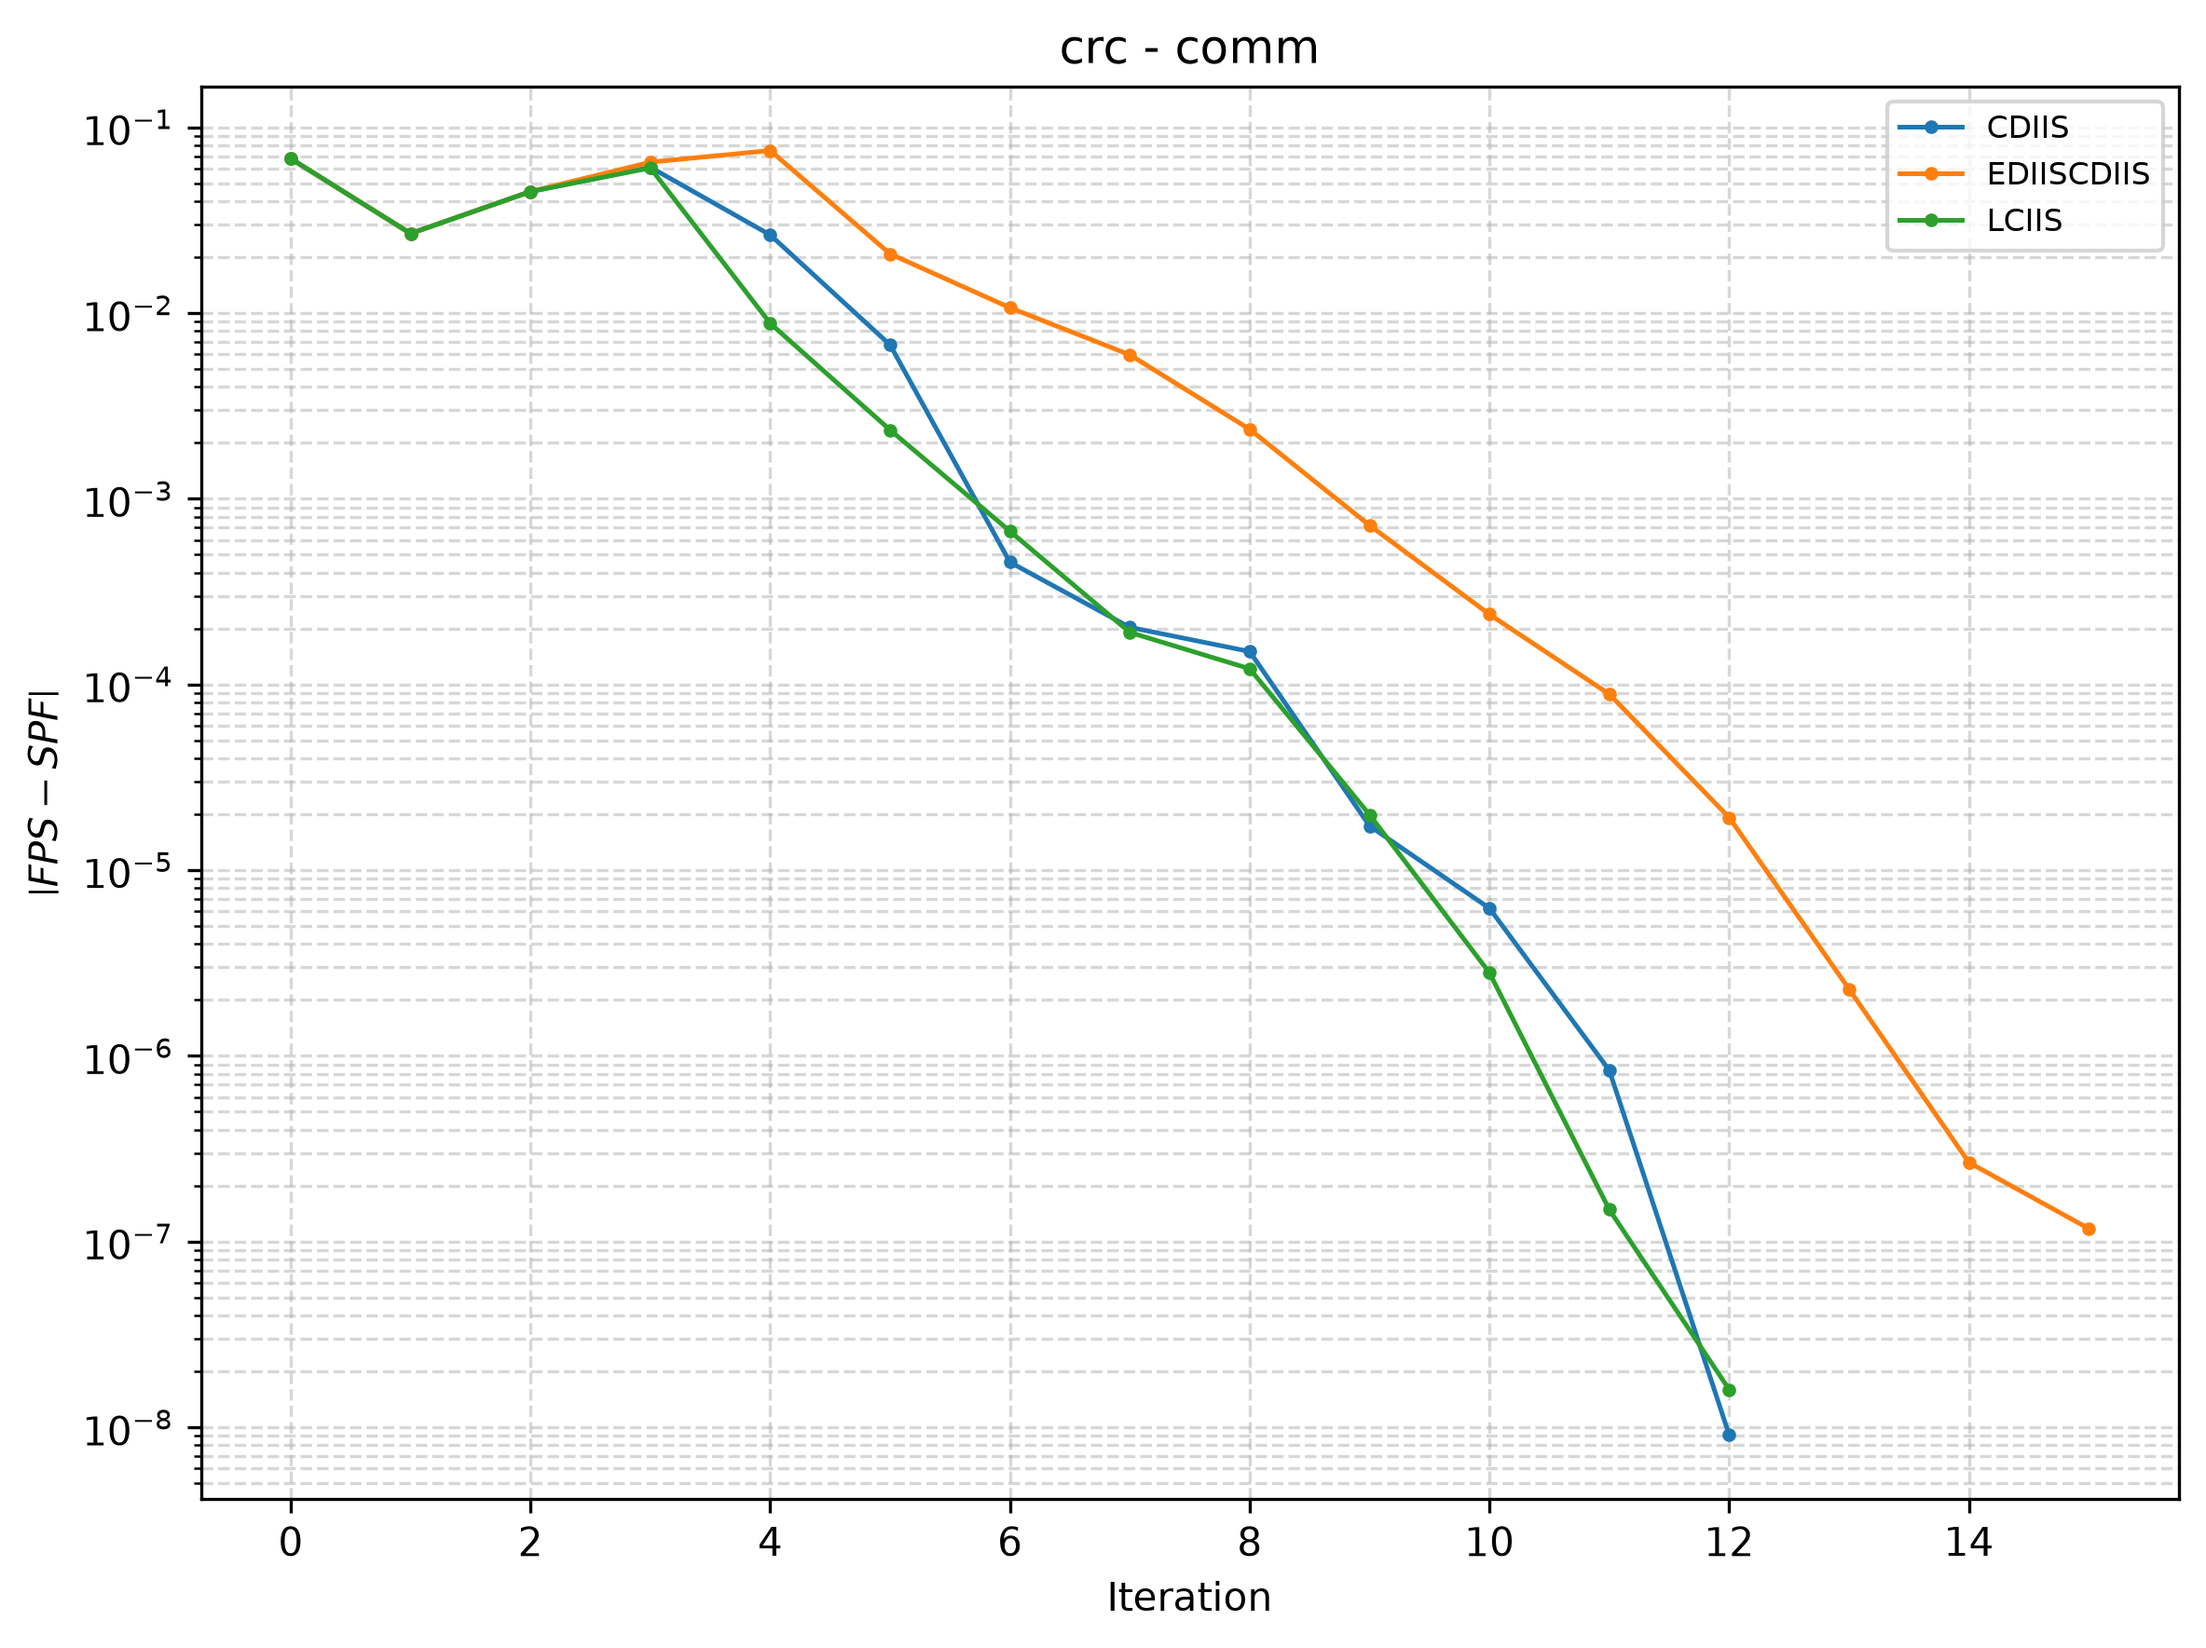
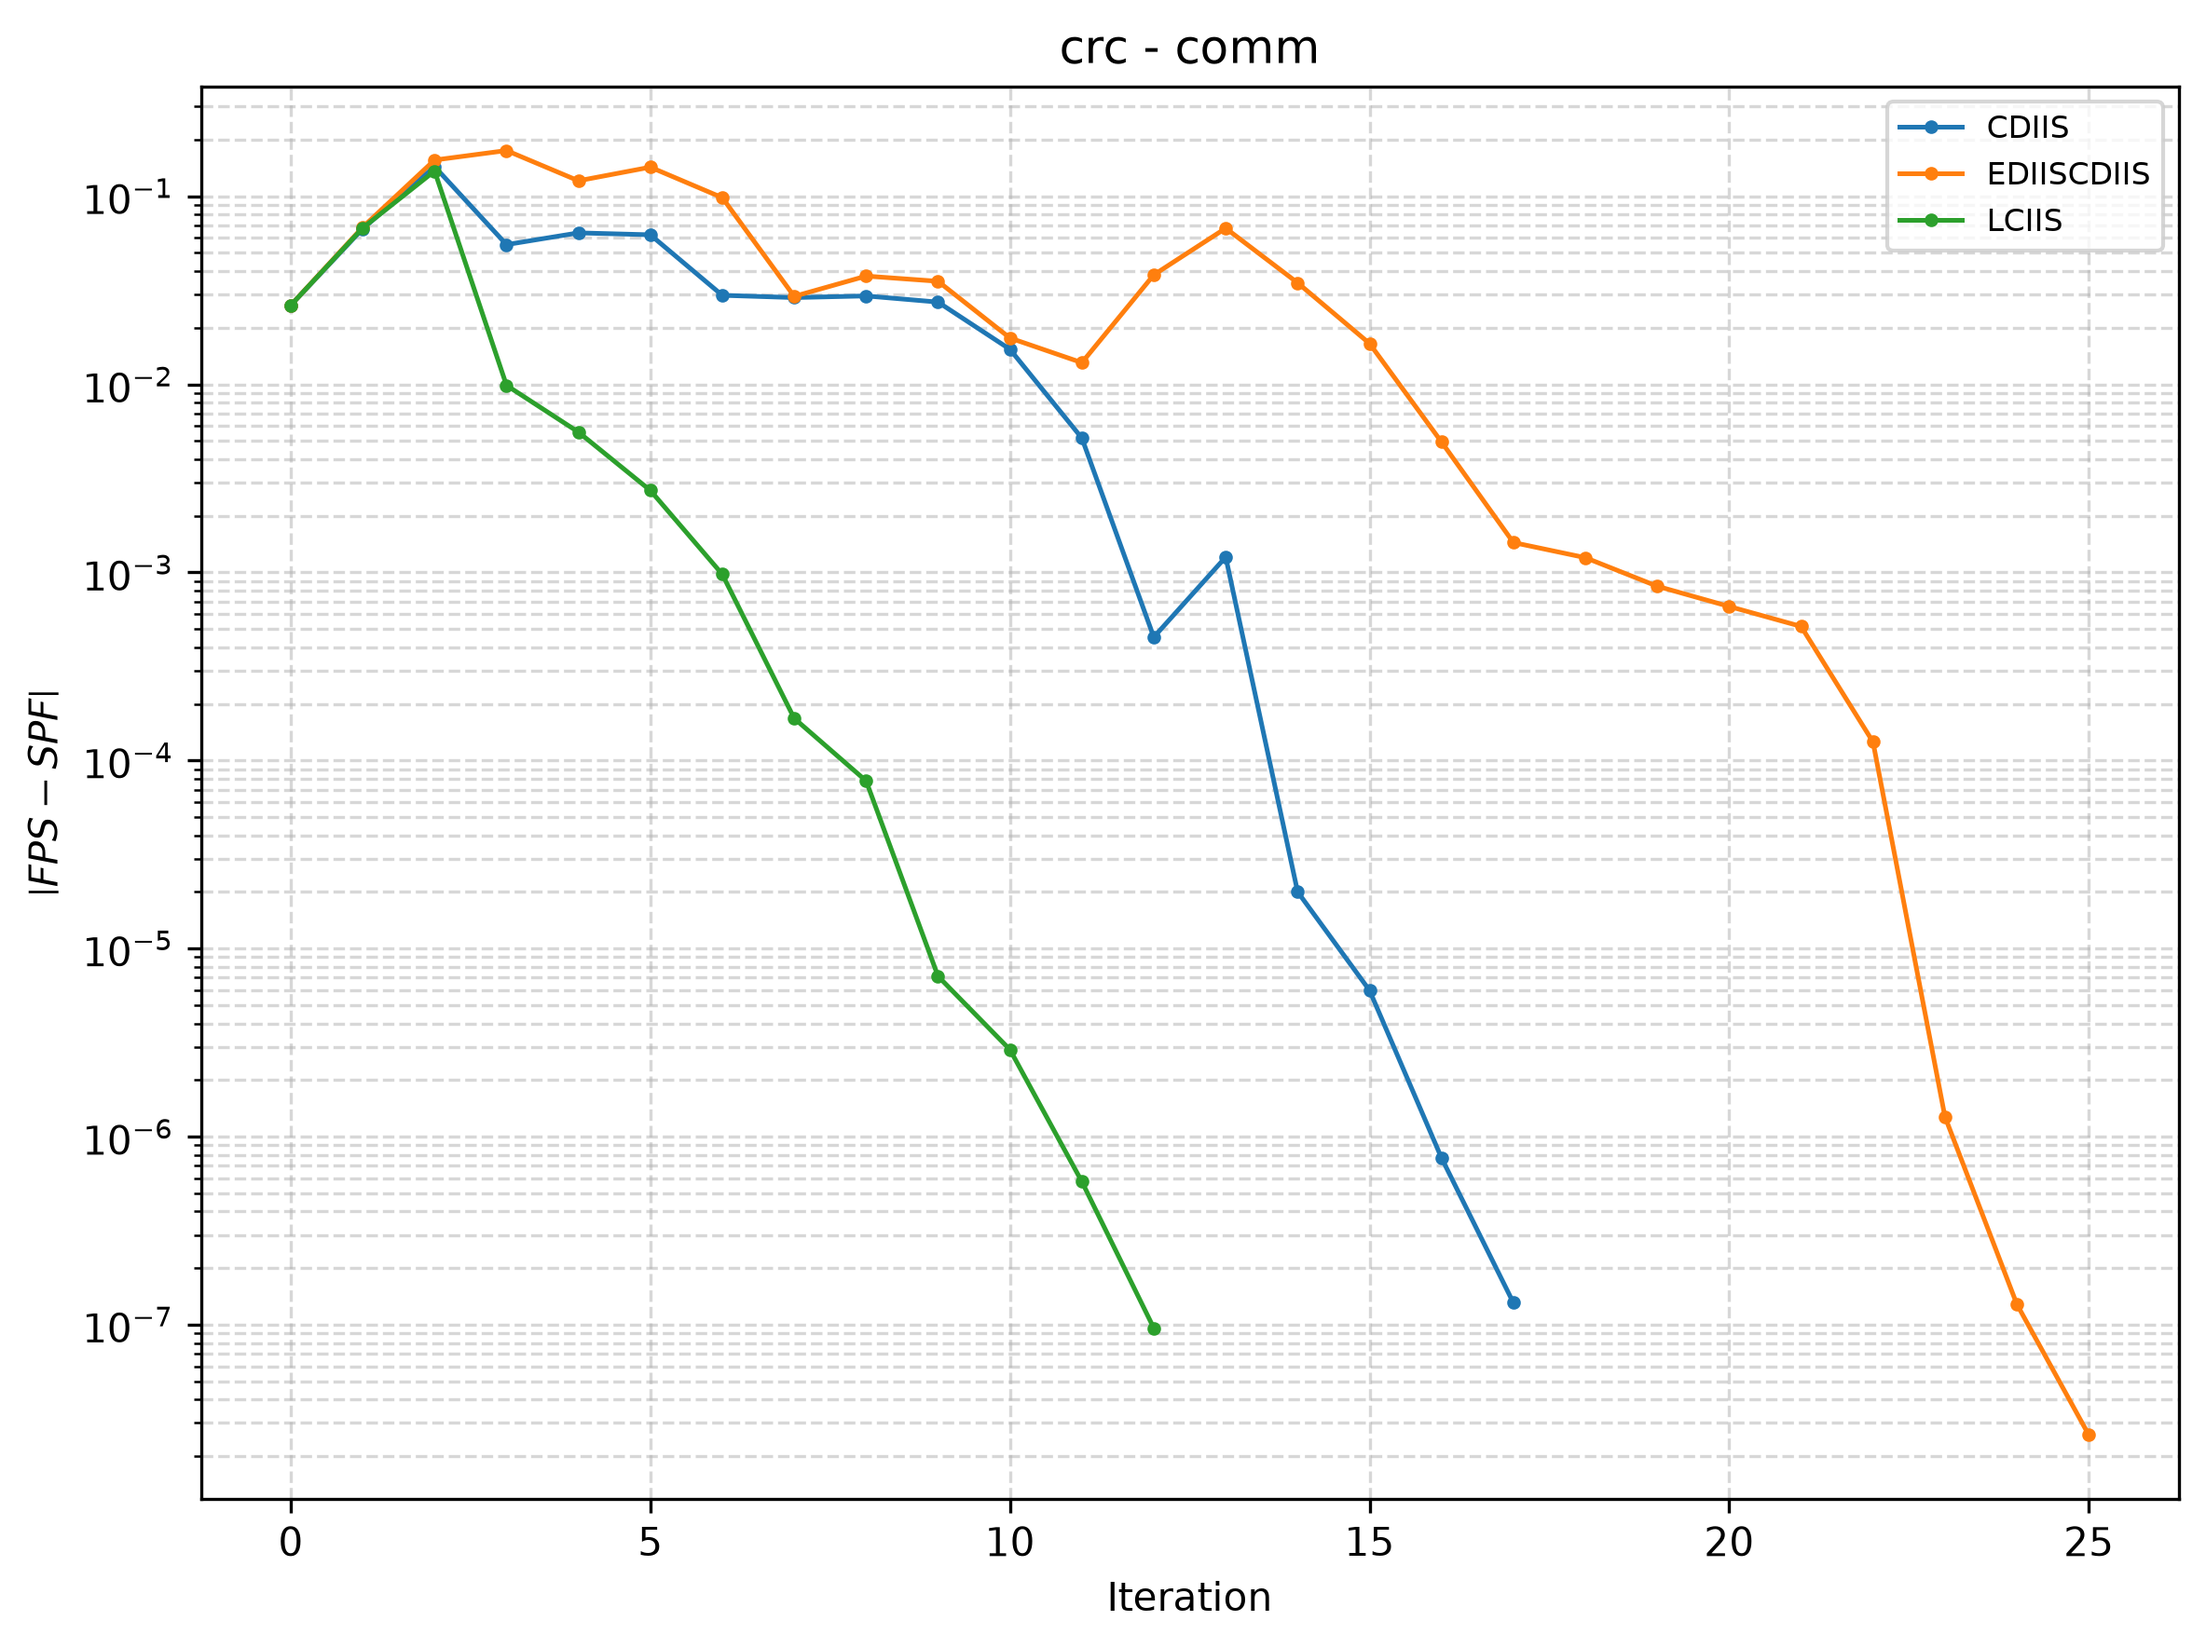
add papers

diff --git a/logger.py b/logger.py
@@ -45,7 +45,7 @@ class ProgressBar:
         counter_width = len(str(self.total))
         self._last_line = (
             f"[{timestamp} {self.name}]: "
-            f"[{bar}] {current:>{counter_width}}/{self.total}"
+            f"{bar} {current:>{counter_width}}/{self.total}"
         )
 
         # ANSI color codes

diff --git a/README.md b/README.md
@@ -2,23 +2,32 @@
 
 This is a program to test an SCF DIIS implementation against standard benchmarks in literature. 
 
-The benchmarks are taken from "Comparison of self-consistent field convergence acceleration techniques" by Alejandro J. Garza and Gustavo E. Scuseria, published in The Journal of Chemical Physics (2012). 
+The benchmarks are taken from various sources on SCF algorithms. 
 
 These include:
 
-| Molecule                         | Method / Basis        | Guess  | 
-| ---                              | ---                   | ---    |
-| CH3CHO                           | UHF/6-31G(d)          | SAD    |
-| CrC                              | RB3LYP/6-31G          | SAD    |
-| CdIm2                            | RB3LYP/3-21G          | Core   |
-| SiH4                             | RVWN5/VWN5            | SAD    |
-| UF4                              | RB3LYP/LANL2DZ        | SAD    |
-| UF(BS)                           | UB3LYP/LANL2DZ        | Triplet|
-| Ru4CO                            | RB3LYP/LANL2DZ        | SAD    |
-| Ru4CO(BS)                        | UB3LYP/LANL2DZ        | Triplet|
-| Cr2                              | RHF/6-31G             | Core   |
-| N-Methyl-(2-nitrovinyl)amine (E) | RHF/6-31G(d)          | Core   |
+| Molecule                         | Method / Basis        | Guess  | Source                | 
+| ---                              | ---                   | ---    | ---                   |
+| CH3CHO                           | UHF/6-31G(d)          | SAD    | [1] [2] [3] [4] [5]   |
+| CrC                              | RB3LYP/6-31G          | SAD    | [2] [3] [4] [5]       |
+| CdIm2                            | RB3LYP/3-21G          | Core   | [3] [4] [5]           |
+| SiH3-H                           | RVWN5/VWN5            | SAD    | [3] [4] [5]           |
+| UF4                              | RB3LYP/LANL2DZ        | SAD    | [2] [3] [4] [5]       |
+| UF(BS)                           | UB3LYP/LANL2DZ        | Triplet| [3] [4] [5]           |
+| Ru4CO                            | RB3LYP/LANL2DZ        | SAD    | [3] [4] [5]           |
+| Ru4CO(BS)                        | UB3LYP/LANL2DZ        | Triplet| [3] [4] [5]           |
+| Cr2                              | RHF/6-31G             | Core   | [1]                   |
+| N-Methyl-(2-nitrovinyl)amine (E) | RHF/6-31G(d)          | Core   | [1]                   |
 
+[1]: Cancès, É., & Le Bris, C. (2000). Can we outperform the DIIS approach for electronic structure calculations?. *International Journal of Quantum Chemistry*, 79(2), 82-90.
+
+[2]: Kudin, K. N., Scuseria, G. E., & Cancès, É. (2002). A black-box self-consistent field convergence algorithm: One step closer. *The Journal of Chemical Physics*, 116(19), 8255-8261. 
+
+[3]: Hu, X., & Yang, W. (2010). Accelerating self-consistent field convergence with the augmented Roothaan–Hall energy function. *The Journal of Chemical Physics*, 132(5), 054109. 
+
+[4]: Garza, A. J., & Scuseria, G. E. (2012). Comparison of self-consistent field convergence acceleration techniques. *The Journal of Chemical Physics*, 137(5), 054110. 
+
+[5]: Li, H., & Yaron, D. J. (2016). A least-squares commutator in the iterative subspace method for accelerating self-consistent field convergence. *Journal of Chemical Theory and Computation*, 12(11), 5322-5332. 
 
 The LANL2DZ basis functions are taken from Basis Set Exchange (BSE) and are supplied under basis/ in Gaussian format
 while the ECPs are in NWChem format.
